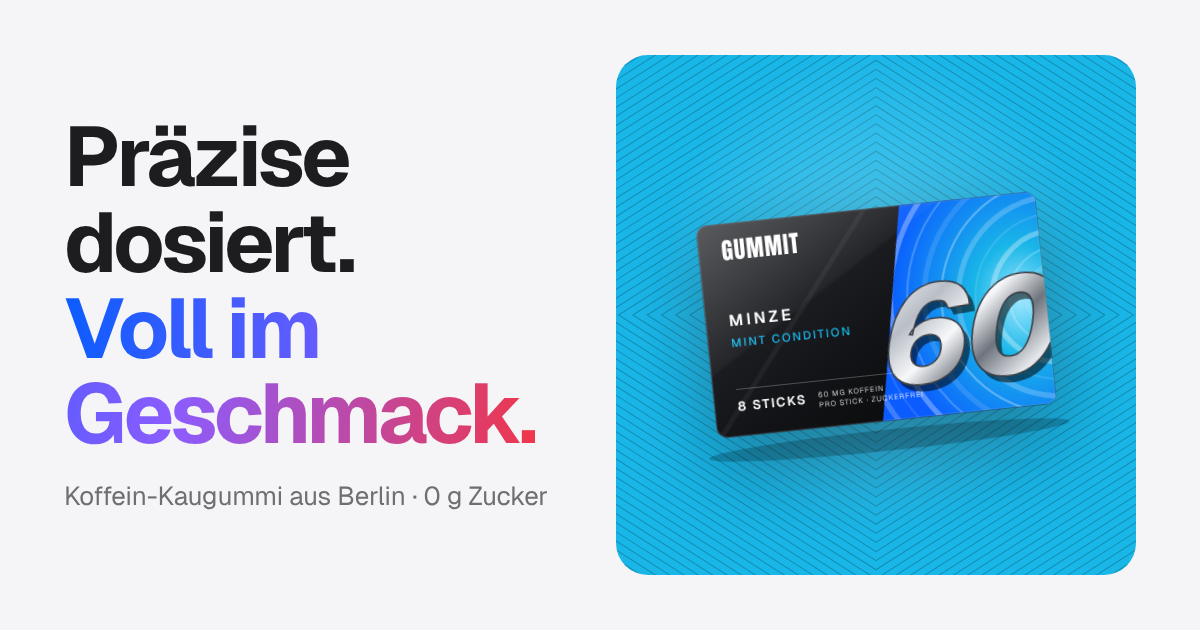
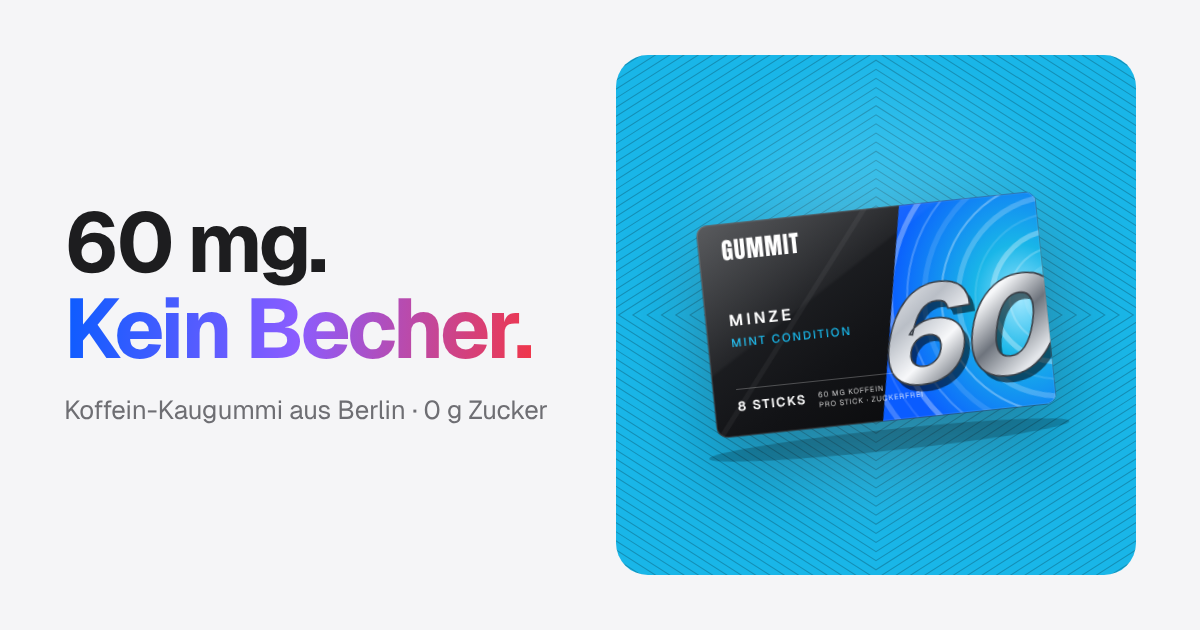
Replace motivational slogans with dry, specific copy (#28)
Hero now reads "60 mg. Kein Becher." and the manifesto panels become three
timestamped scenes (library, cafe, home). Section headings drop the
generic phrases.

Claude-Session: https://claude.ai/code/session_01VpTZTJyaLnmGBWKNtCo5T4

diff --git a/website/index.html b/website/index.html
@@ -4,9 +4,9 @@
 <meta charset="utf-8">
 <meta name="viewport" content="width=device-width, initial-scale=1">
 <title>GUMMIT – Koffein-Kaugummi für Berliner Builder</title>
-<meta name="description" content="Zuckerfreier Kaugummi mit 52 bis 60 mg Koffein pro Stick. Für alle, die dranbleiben: Lernphasen, Launches, lange Abende im Coworking.">
+<meta name="description" content="Zuckerfreier Kaugummi mit 52 bis 60 mg Koffein pro Stick. Für Lernphasen, Launches und lange Abende im Coworking.">
 <meta property="og:title" content="GUMMIT – Koffein-Kaugummi für Berliner Builder">
-<meta property="og:description" content="Zuckerfreier Kaugummi mit 52 bis 60 mg Koffein pro Stick. Für alle, die dranbleiben: Lernphasen, Launches, lange Abende im Coworking.">
+<meta property="og:description" content="Zuckerfreier Kaugummi mit 52 bis 60 mg Koffein pro Stick. Für Lernphasen, Launches und lange Abende im Coworking.">
 <meta property="og:type" content="website">
 <meta property="og:image" content="https://gum-prototype.vercel.app/img/og.png">
 <meta name="theme-color" content="#F5F5F7">
@@ -33,9 +33,9 @@
   <div class="wrap hero-grid">
     <div class="hero-copy">
       <p class="eyebrow">GUMMIT · Koffein-Kaugummi</p>
-      <h1 class="shout">Bleib<br>dran.</h1>
-      <p class="lede">Für die Nacht vor der Klausur, den Sprint vor dem Launch und die Stunde, in der es klick macht. Zuckerfreier Kaugummi mit 52 bis 60 mg Koffein pro Stick.</p>
-      <div class="hero-cta"><a class="btn white" href="#manifest">Unser Manifest</a><a class="btn white-ghost" href="/produkt">Alle Produktinfos</a></div>
+      <h1 class="shout">60 mg.<br>Kein Becher.</h1>
+      <p class="lede">Zuckerfreier Kaugummi mit Koffein. Die Menge steht vorne drauf, der Rest passt in die Hosentasche.</p>
+      <div class="hero-cta"><a class="btn white" href="/produkt">Alle Produktinfos</a></div>
     </div>
     <div class="buybox card">
       <div class="stage mini" id="stage" style="--stage:#19B6E8">
@@ -137,8 +137,8 @@
 <section class="band" id="fuer-wen">
   <div class="wrap">
     <p class="sec-label"><span>01</span>Für wen</p>
-    <h2>Für alle, die <em>dranbleiben.</em></h2>
-    <p class="lead">Nicht für alle. Für Leute, die abends noch einen Prototyp fertig machen, für die Prüfung die dritte Runde drehen und Montag pitchen.</p>
+    <h2>Für lange Tage <em>mit Laptop.</em></h2>
+    <p class="lead">Für Leute, die abends noch einen Prototyp fertig machen, für die Prüfung die dritte Runde drehen und Montag pitchen.</p>
     <div class="personas">
       <article class="card persona"><div class="slot persona-img"><img src="/img/slots/persona-vibecoder.jpg" alt="Vibe Coder" loading="lazy"></div><span class="num">A</span><h3>Vibe Coder</h3><p>Du baust mit Cursor, Claude und Kaffee. Der Kaffee ist kalt, der Build läuft noch. Das Pack liegt neben dem Ladekabel.</p></article>
       <article class="card persona"><div class="slot persona-img"><img src="/img/slots/persona-gruender.jpg" alt="Gründer" loading="lazy"></div><span class="num">B</span><h3>Gründer</h3><p>Pitch-Deck Version 14, Probelauf um 23 Uhr. Kein Zucker vor dem Auftritt, keine Dose Energy auf dem Tisch.</p></article>
@@ -147,12 +147,12 @@
   </div>
 </section>
 
-<section class="manifest" id="manifest"><div class="panel"><video class="bg-video" muted loop playsinline preload="none" poster="/img/slots/poster-run.jpg" data-src="https://assets.mixkit.co/videos/608/608-720.mp4"></video><div class="shade"></div><div class="wrap"><p class="eyebrow">Manifest 1/3</p><h2 class="shout">Niemand sieht die Nächte vor dem Launch.</h2><p class="lede">Du schon. Und das reicht.</p></div></div><div class="panel"><video class="bg-video" muted loop playsinline preload="none" poster="/img/slots/poster-library.jpg" data-src="https://assets.mixkit.co/videos/14734/14734-720.mp4"></video><div class="shade"></div><div class="wrap"><p class="eyebrow">Manifest 2/3</p><h2 class="shout">Talent ist der Anfang. Wiederholung ist der Rest.</h2><p class="lede">Kapitel sieben, dritte Runde. Weiter.</p></div></div><div class="panel"><video class="bg-video" muted loop playsinline preload="none" poster="/img/slots/poster-code.jpg" data-src="https://assets.mixkit.co/videos/1749/1749-720.mp4"></video><div class="shade"></div><div class="wrap"><p class="eyebrow">Manifest 3/3</p><h2 class="shout">Mach den Commit.</h2><p class="lede">Fertig schlägt perfekt. Gummit. Push. Repeat.</p></div></div></section>
+<section class="manifest" id="manifest"><div class="panel"><video class="bg-video" muted loop playsinline preload="none" poster="/img/slots/poster-library.jpg" data-src="https://assets.mixkit.co/videos/14734/14734-720.mp4"></video><div class="shade"></div><div class="wrap"><p class="eyebrow">22:41 · Bibliothek</p><h2 class="shout">Seite 212 von 480.</h2><p class="lede">Der Automat im Erdgeschoss hat nur Cola.</p></div></div><div class="panel"><video class="bg-video" muted loop playsinline preload="none" poster="/img/slots/poster-cafe.jpg" data-src="https://assets.mixkit.co/videos/1746/1746-720.mp4"></video><div class="shade"></div><div class="wrap"><p class="eyebrow">15:12 · Café</p><h2 class="shout">Schlange bis zur Tür.</h2><p class="lede">Das Pack ist schon in der Jackentasche.</p></div></div><div class="panel"><video class="bg-video" muted loop playsinline preload="none" poster="/img/slots/poster-code.jpg" data-src="https://assets.mixkit.co/videos/1749/1749-720.mp4"></video><div class="shade"></div><div class="wrap"><p class="eyebrow">01:07 · Zuhause</p><h2 class="shout">Build läuft. Kaffee ist kalt.</h2><p class="lede">Ein Stick liegt neben dem Ladekabel.</p></div></div></section>
 
 <section class="band" id="warum">
   <div class="wrap">
     <p class="sec-label"><span>02</span>Warum GUMMIT</p>
-    <h2>Koffein, <em>neu gedacht.</em></h2>
+    <h2>Was drin ist. <em>Was nicht.</em></h2>
     <p class="lead">Kein Becher, kein Zucker, kein Anstehen. Ein Stick, eine klare Zahl.</p>
     <div class="bento">
   <div class="tile t-big dark">
@@ -189,7 +189,7 @@
   <div class="tile"><b class="big">8</b><h3>Sticks, flach verpackt</h3><p>Passt neben Laptop, Ladekabel und Event-Badge.</p></div>
   <div class="tile grad"><h3>Du promptest.<br>Claude coded.<br>Du kaust.</h3></div>
   <div class="tile"><h3>Koffein-Timeline</h3><p>Sieh als Kurve, wie viel Koffein über den Tag im Körper ist.</p><a class="more" href="/#timeline">Ausprobieren →</a></div>
-  <div class="tile t-wide"><p class="eyebrow">Berlin × San Francisco</p><h3>Gebaut in Kreuzberg. Im Tempo der Bay Area.</h3><p>Klare Zahlen, klares Design, kein Zucker. Für Leute, die heute launchen statt nächstes Quartal.</p></div>
+  <div class="tile t-wide"><p class="eyebrow">Aus Berlin</p><h3>Versand aus Berlin. Kein Abo.</h3><p>Reservieren ist unverbindlich. Bezahlt wird erst, wenn du wirklich bestellst.</p></div>
 </div>
   </div>
 </section>
@@ -197,7 +197,7 @@
 <section class="band senses" id="sorten">
   <div class="wrap">
     <p class="sec-label"><span>03</span>Sorten</p>
-    <h2>Drei Sorten. <em>Alle Sinne.</em></h2>
+    <h2>Drei Sorten. <em>Drei Farben.</em></h2>
     <p class="lead">Jede Sorte hat ihre eigene Farbe, ihr eigenes Muster und ihre eigene Zahl.</p>
     <div class="flavors">
       <a class="flavor" href="/produkt?sorte=minze" style="--stage:#19B6E8"><div class="stage"><svg class="pack-svg" viewBox="0 0 400 300" role="img" aria-label="GUMMIT Mint Condition, Minze, 60 mg Koffein pro Stick, Vorderseite"><defs>

diff --git a/website/produkt.html b/website/produkt.html
@@ -315,7 +315,7 @@
   <div class="tile"><b class="big">8</b><h3>Sticks, flach verpackt</h3><p>Passt neben Laptop, Ladekabel und Event-Badge.</p></div>
   <div class="tile grad"><h3>Du promptest.<br>Claude coded.<br>Du kaust.</h3></div>
   <div class="tile"><h3>Koffein-Timeline</h3><p>Sieh als Kurve, wie viel Koffein über den Tag im Körper ist.</p><a class="more" href="/#timeline">Ausprobieren →</a></div>
-  <div class="tile t-wide"><p class="eyebrow">Berlin × San Francisco</p><h3>Gebaut in Kreuzberg. Im Tempo der Bay Area.</h3><p>Klare Zahlen, klares Design, kein Zucker. Für Leute, die heute launchen statt nächstes Quartal.</p></div>
+  <div class="tile t-wide"><p class="eyebrow">Aus Berlin</p><h3>Versand aus Berlin. Kein Abo.</h3><p>Reservieren ist unverbindlich. Bezahlt wird erst, wenn du wirklich bestellst.</p></div>
 </div>
   </div>
 </section>

diff --git a/website/styles.css b/website/styles.css
@@ -117,7 +117,7 @@ main { overflow-x: clip; }
 .shade { position: absolute; inset: 0; background: linear-gradient(90deg, rgba(0, 0, 0, .72) 0%, rgba(0, 0, 0, .35) 55%, rgba(0, 0, 0, .15) 100%); }
 .hero-video .wrap { position: relative; width: 100%; }
 .hero-video .hero-grid { grid-template-columns: 1.15fr .85fr; align-items: center; }
-.hero-video h1.shout { font-size: clamp(5rem, 13vw, 11.5rem); }
+.hero-video h1.shout { font-size: clamp(4rem, 8.6vw, 8rem); }
 .hero-video .eyebrow { color: rgba(255, 255, 255, .75); }
 .hero-video .lede { color: rgba(255, 255, 255, .9); font-size: 21px; }
 .btn.white { background: #fff; color: var(--ink); }

diff --git a/tools/build_site.py b/tools/build_site.py
@@ -217,7 +217,7 @@ BENTO = f'''<div class="bento">
   <div class="tile"><b class="big">8</b><h3>Sticks, flach verpackt</h3><p>Passt neben Laptop, Ladekabel und Event-Badge.</p></div>
   <div class="tile grad"><h3>Du promptest.<br>Claude coded.<br>Du kaust.</h3></div>
   <div class="tile"><h3>Koffein-Timeline</h3><p>Sieh als Kurve, wie viel Koffein über den Tag im Körper ist.</p><a class="more" href="/#timeline">Ausprobieren →</a></div>
-  <div class="tile t-wide"><p class="eyebrow">Berlin × San Francisco</p><h3>Gebaut in Kreuzberg. Im Tempo der Bay Area.</h3><p>Klare Zahlen, klares Design, kein Zucker. Für Leute, die heute launchen statt nächstes Quartal.</p></div>
+  <div class="tile t-wide"><p class="eyebrow">Aus Berlin</p><h3>Versand aus Berlin. Kein Abo.</h3><p>Reservieren ist unverbindlich. Bezahlt wird erst, wenn du wirklich bestellst.</p></div>
 </div>'''
 
 TIMELINE = '''<section class="band" id="timeline">
@@ -244,14 +244,14 @@ TIMELINE = '''<section class="band" id="timeline">
 '''
 
 MANIFEST_PANELS = [
-    ("608", "poster-run", "Niemand sieht die Nächte vor dem Launch.", "Du schon. Und das reicht."),
-    ("14734", "poster-library", "Talent ist der Anfang. Wiederholung ist der Rest.", "Kapitel sieben, dritte Runde. Weiter."),
-    ("1749", "poster-code", "Mach den Commit.", "Fertig schlägt perfekt. Gummit. Push. Repeat."),
+    ("14734", "poster-library", "22:41 · Bibliothek", "Seite 212 von 480.", "Der Automat im Erdgeschoss hat nur Cola."),
+    ("1746", "poster-cafe", "15:12 · Café", "Schlange bis zur Tür.", "Das Pack ist schon in der Jackentasche."),
+    ("1749", "poster-code", "01:07 · Zuhause", "Build läuft. Kaffee ist kalt.", "Ein Stick liegt neben dem Ladekabel."),
 ]
 MANIFEST = '<section class="manifest" id="manifest">' + "".join(
     f'<div class="panel"><video class="bg-video" muted loop playsinline preload="none" poster="/img/slots/{poster}.jpg" data-src="https://assets.mixkit.co/videos/{vid}/{vid}-720.mp4"></video><div class="shade"></div>'
-    f'<div class="wrap"><p class="eyebrow">Manifest {i + 1}/3</p><h2 class="shout">{title}</h2><p class="lede">{sub}</p></div></div>'
-    for i, (vid, poster, title, sub) in enumerate(MANIFEST_PANELS)) + '</section>'
+    f'<div class="wrap"><p class="eyebrow">{when}</p><h2 class="shout">{title}</h2><p class="lede">{sub}</p></div></div>'
+    for vid, poster, when, title, sub in MANIFEST_PANELS) + '</section>'
 
 PDP_VIEWS = "".join(
     f'<div class="pack-view" data-f="{f["id"]}" data-v="{v}"{"" if (f["id"], v) == ("minze", "front") else " hidden"}>{pack(f, v, "pdp-" + f["id"] + "-" + v)}</div>'
@@ -317,9 +317,9 @@ def home():
   <div class="wrap hero-grid">
     <div class="hero-copy">
       <p class="eyebrow">GUMMIT · Koffein-Kaugummi</p>
-      <h1 class="shout">Bleib<br>dran.</h1>
-      <p class="lede">Für die Nacht vor der Klausur, den Sprint vor dem Launch und die Stunde, in der es klick macht. Zuckerfreier Kaugummi mit 52 bis 60 mg Koffein pro Stick.</p>
-      <div class="hero-cta"><a class="btn white" href="#manifest">Unser Manifest</a><a class="btn white-ghost" href="/produkt">Alle Produktinfos</a></div>
+      <h1 class="shout">60 mg.<br>Kein Becher.</h1>
+      <p class="lede">Zuckerfreier Kaugummi mit Koffein. Die Menge steht vorne drauf, der Rest passt in die Hosentasche.</p>
+      <div class="hero-cta"><a class="btn white" href="/produkt">Alle Produktinfos</a></div>
     </div>
     <div class="buybox card">
       <div class="stage mini" id="stage" style="--stage:{FLAVORS[0]["color"]}">
@@ -349,8 +349,8 @@ def home():
 <section class="band" id="fuer-wen">
   <div class="wrap">
     {section_label("01", "Für wen")}
-    <h2>Für alle, die <em>dranbleiben.</em></h2>
-    <p class="lead">Nicht für alle. Für Leute, die abends noch einen Prototyp fertig machen, für die Prüfung die dritte Runde drehen und Montag pitchen.</p>
+    <h2>Für lange Tage <em>mit Laptop.</em></h2>
+    <p class="lead">Für Leute, die abends noch einen Prototyp fertig machen, für die Prüfung die dritte Runde drehen und Montag pitchen.</p>
     <div class="personas">
       <article class="card persona">{img_slot("persona-vibecoder", "Vibe Coder", "persona-img")}<span class="num">A</span><h3>Vibe Coder</h3><p>Du baust mit Cursor, Claude und Kaffee. Der Kaffee ist kalt, der Build läuft noch. Das Pack liegt neben dem Ladekabel.</p></article>
       <article class="card persona">{img_slot("persona-gruender", "Gründer", "persona-img")}<span class="num">B</span><h3>Gründer</h3><p>Pitch-Deck Version 14, Probelauf um 23 Uhr. Kein Zucker vor dem Auftritt, keine Dose Energy auf dem Tisch.</p></article>
@@ -364,7 +364,7 @@ def home():
 <section class="band" id="warum">
   <div class="wrap">
     {section_label("02", "Warum GUMMIT")}
-    <h2>Koffein, <em>neu gedacht.</em></h2>
+    <h2>Was drin ist. <em>Was nicht.</em></h2>
     <p class="lead">Kein Becher, kein Zucker, kein Anstehen. Ein Stick, eine klare Zahl.</p>
     {BENTO}
   </div>
@@ -373,7 +373,7 @@ def home():
 <section class="band senses" id="sorten">
   <div class="wrap">
     {section_label("03", "Sorten")}
-    <h2>Drei Sorten. <em>Alle Sinne.</em></h2>
+    <h2>Drei Sorten. <em>Drei Farben.</em></h2>
     <p class="lead">Jede Sorte hat ihre eigene Farbe, ihr eigenes Muster und ihre eigene Zahl.</p>
     <div class="flavors">
       {FLAVOR_CARDS}
@@ -432,7 +432,7 @@ def home():
 {SERVICE}
 '''
     return page("/", "GUMMIT – Koffein-Kaugummi für Berliner Builder",
-                "Zuckerfreier Kaugummi mit 52 bis 60 mg Koffein pro Stick. Für alle, die dranbleiben: Lernphasen, Launches, lange Abende im Coworking.",
+                "Zuckerfreier Kaugummi mit 52 bis 60 mg Koffein pro Stick. Für Lernphasen, Launches und lange Abende im Coworking.",
                 "/", body)
 
 

diff --git a/07_Ideen-Verlauf.md b/07_Ideen-Verlauf.md
@@ -101,3 +101,4 @@ Alle Ideen aus dem Gespräch vom 08.10.2026, in der Reihenfolge, wie sie kamen, 
 | Hackathons auf der Website | entfernt | Ersetzt durch Meetups, Lerngruppen, Coworkings |
 | Persönliches zum Gründer (Name, Job, 3D-Druck, Fotos, Team-Karussell) | entfernt | Story jetzt als "Team GUMMIT" ohne Person |
 | Weißer Hintergrund | ersetzt | Weiche Farbverläufe in den Sortenfarben, feines Rautenmuster, Glas-Karten |
+| Motivationssprüche ("Bleib dran.", Manifest) | ersetzt | Zu typisch. Jetzt trocken und konkret: "60 mg. Kein Becher." und drei Szenen mit Uhrzeit |

diff --git a/website/img/slots/QUELLEN.md b/website/img/slots/QUELLEN.md
@@ -15,6 +15,6 @@ Sie sind Platzhalter für den Prototyp. Vor dem Launch durch eigene Fotos ersetz
 | community-tasche.jpg | 1746 | Laptop im Café |
 | mission-event.jpg | 4531 | Studentin in der Bibliothek |
 | poster-hero.jpg + Video | 48503 | Konzentrierter junger Mann am Computer |
-| poster-run.jpg + Video | 608 | Läufer im Gegenlicht |
+| poster-cafe.jpg + Video | 1746 | Laptop im Café |
 | poster-library.jpg + Video | 14734 | Student in der Bibliothek |
 | Video Code | 1749 | Entwickler mit Kaffee |
